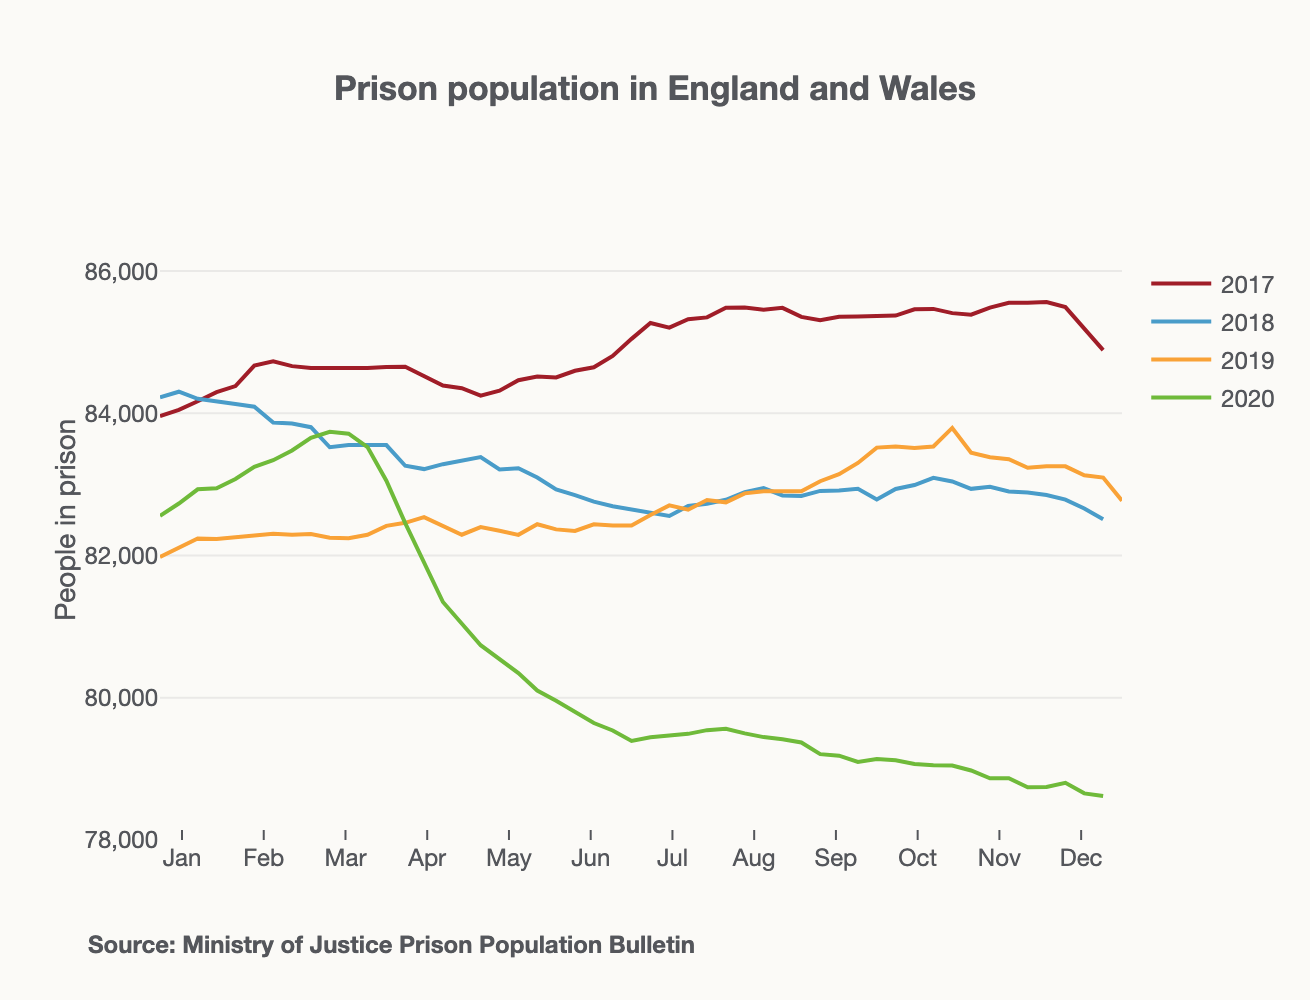
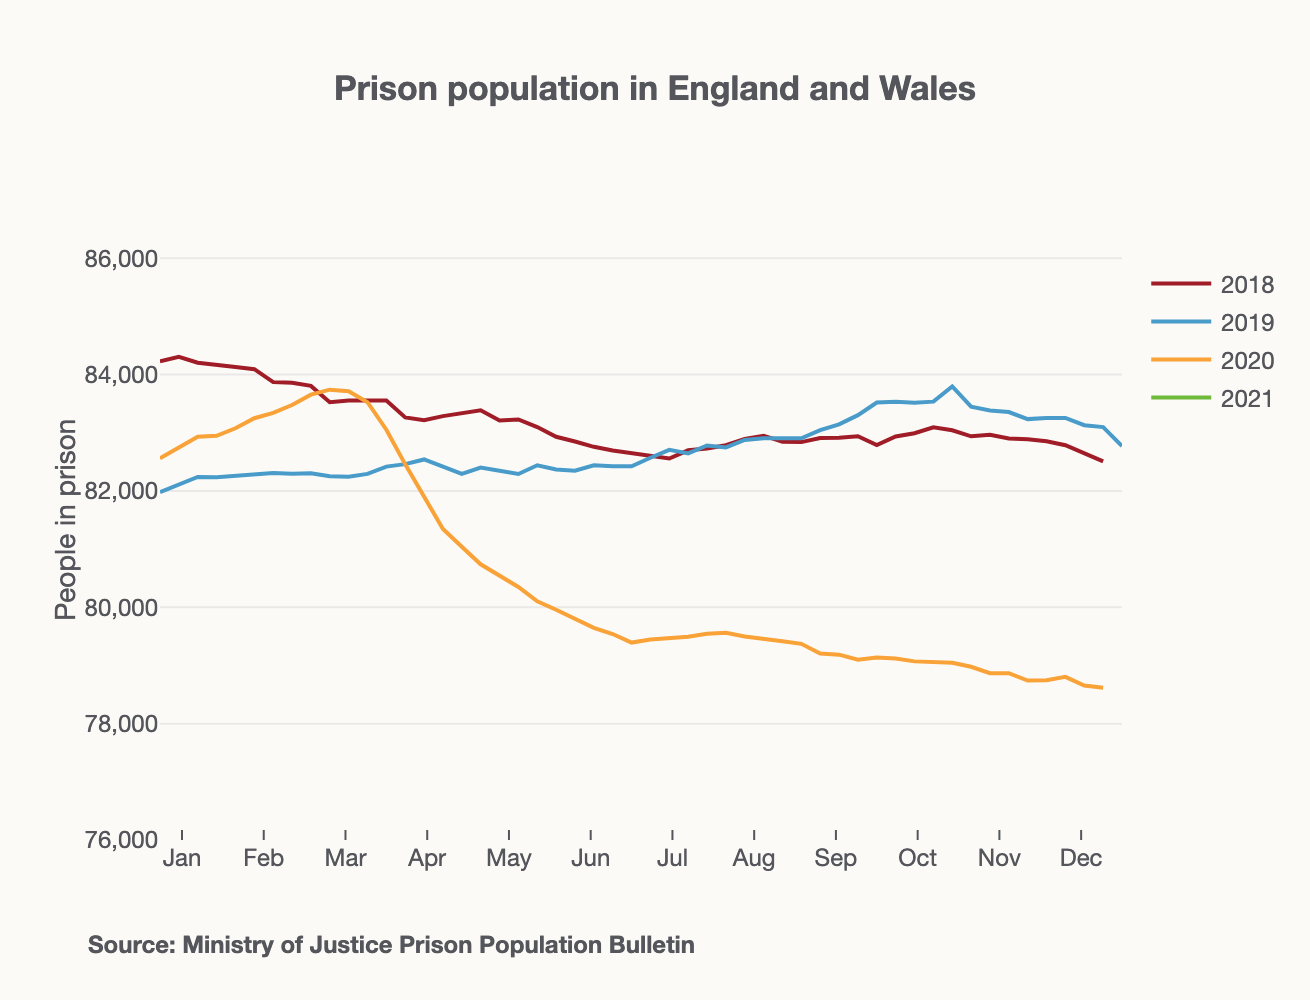
Adding 2021 trace
New data and charts for the week and amends to the script to include 2021 and deprecate 2017.

diff --git a/Scripts/prison_population.py b/Scripts/prison_population.py
@@ -7,7 +7,6 @@ Created on Wed Apr 15 17:41:55 2020
 """
 
 ##Importing libaries
-import os
 import plotly.graph_objs as go #Offline plotting
 import chart_studio.plotly as py #Online plotting
 import plotly.io as pio
@@ -24,10 +23,6 @@ import chart_studio
 chart_studio.tools.set_credentials_file(username='alexhewson',
                                   api_key='3EEPd2mvBSQd1vGCq14s')
 
-##Set working directory
-os.chdir("/Users/Alex/Prison Reform Trust/Policy and Comms Team - Documents/Python/Prison-population")
-
-
 # ##Setting templates
 prt_template = go.layout.Template(
     layout=go.Layout(title_font=dict(
@@ -43,7 +38,7 @@ prt_template = go.layout.Template(
 )
 
 ##Reading in data
-df = pd.read_csv("Data/prison_population.csv",
+df = pd.read_csv("../Data/prison_population.csv",
                  usecols=["date", "population"],
                  index_col=["date"],
                  parse_dates = ['date'])
@@ -55,13 +50,13 @@ df['month'] = df.index.month
 df['month'] = df['month'].apply(lambda x: calendar.month_abbr[x])
 
 weeks = 52/12.0
-months = [datetime.date(2020, m, 1).strftime('%b') for m in range(1, 13)]
+months = [datetime.date(2021, m, 1).strftime('%b') for m in range(1, 13)]
 
 ##Plotting
 
 fig = go.Figure()
 
-for year in df['year']['2017':'2020'].unique():
+for year in df['year']['2018':'2021'].unique():
   df_year = df[df['year'] == year]
   
   fig.add_trace(go.Scatter(x=df_year['week'], y=df_year['population'],
@@ -107,7 +102,7 @@ fig.update_layout(title="<b>Prison population in England and Wales</b>",
                       ],
                   )
 
-fig.update_yaxes(range=[78000, 87000], nticks=6)
+fig.update_yaxes(range=[76000, 87000], nticks=6)
 
 
 '''
@@ -115,10 +110,10 @@ This section outputs the final chart, with static; interactive offline; and inte
 '''
 
 ##Plot static image
-fig.write_image("images/prison_population.png", width=655, height=500, scale=2)
+fig.write_image("../images/prison_population.png", width=655, height=500, scale=2)
 
 ##Plot file offline
-#fig.show(config={'displayModeBar': False})
+# fig.show(config={'displayModeBar': False})
 
 ##Plot file online with PRT logo
 

diff --git a/Scripts/female_population.py b/Scripts/female_population.py
@@ -7,7 +7,6 @@ Created on Wed Apr 15 17:41:55 2020
 """
 
 ##Importing libaries
-import os
 import plotly.graph_objs as go #Offline plotting
 import chart_studio.plotly as py #Online plotting
 import plotly.io as pio
@@ -23,9 +22,6 @@ pio.templates
 import chart_studio
 chart_studio.tools.set_credentials_file(username='alexhewson',
                                   api_key='3EEPd2mvBSQd1vGCq14s')
-
-##Set working directory
-os.chdir("/Users/Alex/Prison Reform Trust/Policy and Comms Team - Documents/Python/Prison-population")
 
 
 ##Setting templates
@@ -43,7 +39,7 @@ colorway = ("#A01D28", "#499CC9", "#F9A237", "#6FBA3A"))
 )
 
 ##Reading in data
-df = pd.read_csv("Data/female_population.csv",
+df = pd.read_csv("../Data/female_population.csv",
                  usecols=["date", "population"],
                  index_col=["date"],
                  parse_dates = ['date'])
@@ -55,14 +51,14 @@ df['month'] = df.index.month
 df['month'] = df['month'].apply(lambda x: calendar.month_abbr[x])
 
 weeks = 52/12.0
-months = [datetime.date(2020, m, 1).strftime('%b') for m in range(1, 13)]
+months = [datetime.date(2021, m, 1).strftime('%b') for m in range(1, 13)]
 
 
 ##Plotting
 
 fig = go.Figure()
 
-for year in df['year']['2017':'2020'].unique():
+for year in df['year']['2018':'2021'].unique():
   df_year = df[df['year'] == year]
   
   fig.add_trace(go.Scatter(x=df_year['week'], y=df_year['population'],
@@ -116,7 +112,7 @@ This section outputs the final chart, with static; interactive offline; and inte
 '''
 
 ##Plot static image
-fig.write_image("images/female_prison_population.png", width=655, height=500, scale=2)
+fig.write_image("../images/female_prison_population.png", width=655, height=500, scale=2)
 
 ##Plot file offline
 # fig.show(config={'displayModeBar': False})

diff --git a/Scripts/HDC_caseload.py b/Scripts/HDC_caseload.py
@@ -7,7 +7,6 @@ Created on Wed Apr 15 17:41:55 2020
 """
 
 ##Importing libaries
-import os
 import plotly.graph_objs as go #Offline plotting
 import chart_studio.plotly as py #Online plotting
 import plotly.io as pio
@@ -24,10 +23,6 @@ import chart_studio
 chart_studio.tools.set_credentials_file(username='alexhewson',
                                   api_key='3EEPd2mvBSQd1vGCq14s')
 
-##Set working directory
-os.chdir("/Users/Alex/Prison Reform Trust/Policy and Comms Team - Documents/Python/Prison-population")
-
-
 ##Setting templates
 prt_template = go.layout.Template(
     layout=go.Layout(title_font=dict(
@@ -43,7 +38,7 @@ colorway = ("#A01D28", "#499CC9", "#F9A237", "#6FBA3A"))
 )
 
 ##Reading in data
-df = pd.read_csv("Data/HDC.csv",
+df = pd.read_csv("../Data/HDC.csv",
                  usecols=["date", "hdc_pop"],
                  index_col=["date"],
                  parse_dates = ['date'])
@@ -62,7 +57,7 @@ months = [datetime.date(2020, m, 1).strftime('%b') for m in range(1, 13)]
 
 fig = go.Figure()
 
-for year in df['year']['2017':'2020'].unique():
+for year in df['year']['2018':'2021'].unique():
   df_year = df[df['year'] == year]
   
   fig.add_trace(go.Scatter(x=df_year['week'], y=df_year['hdc_pop'],
@@ -113,7 +108,7 @@ This section outputs the final chart, with static; interactive offline; and inte
 '''
 
 ##Plot static image
-fig.write_image("images/HDC_population.png", width=655, height=500, scale=2)
+fig.write_image("../images/HDC_population.png", width=655, height=500, scale=2)
 
 ##Plot file offline
 # fig.show(config={'displayModeBar': False})
